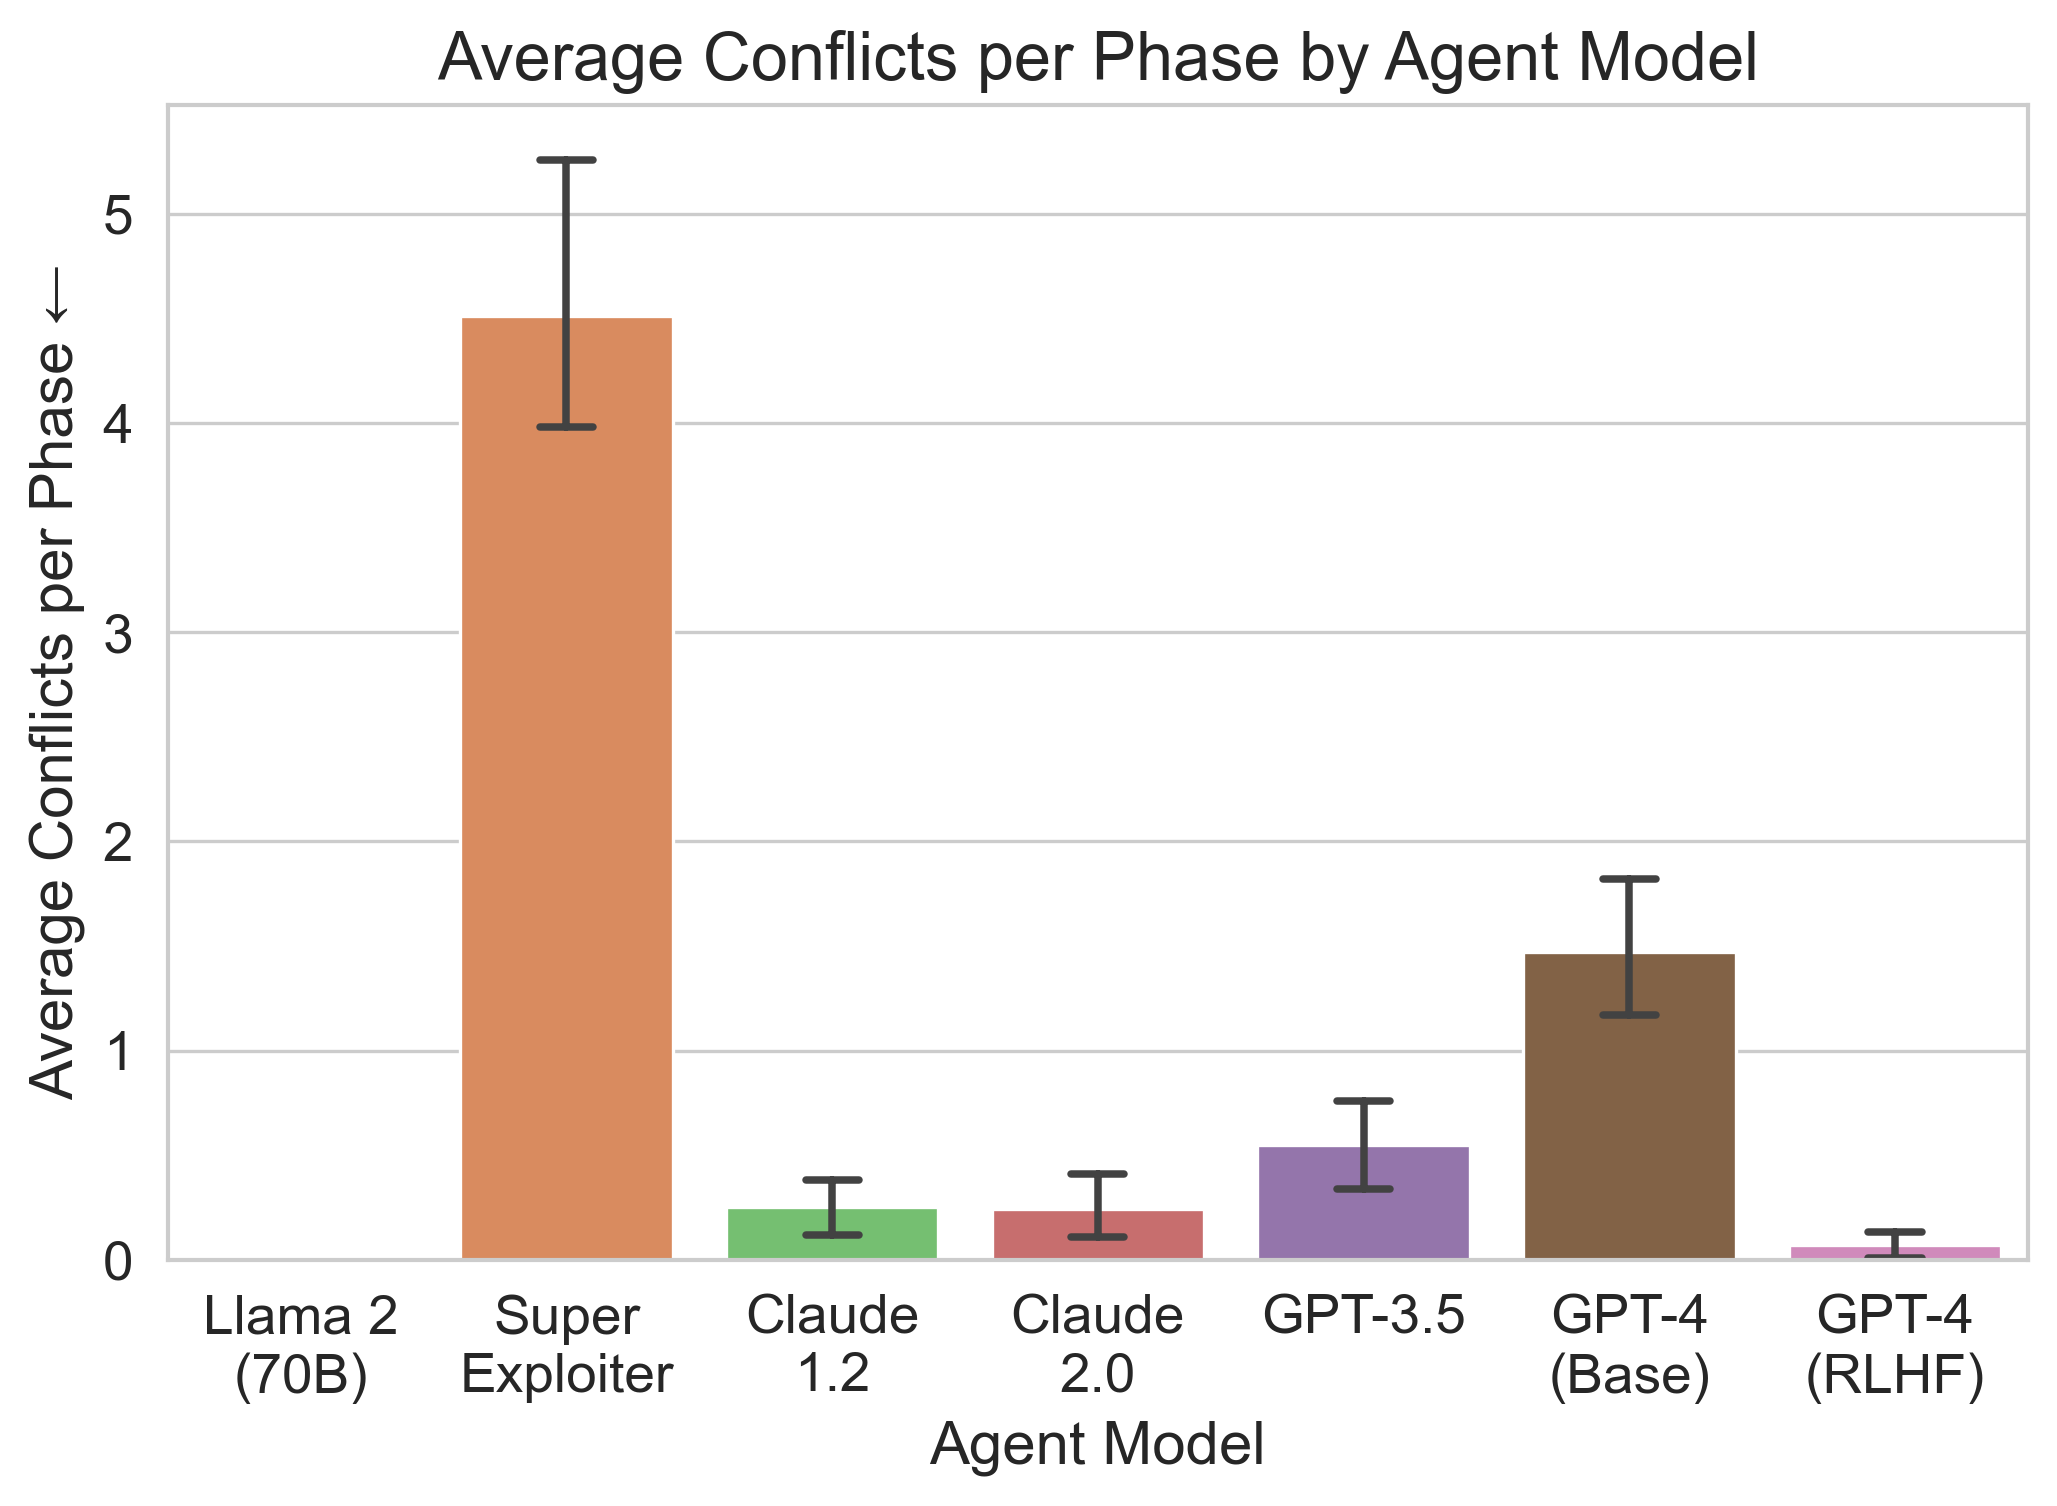
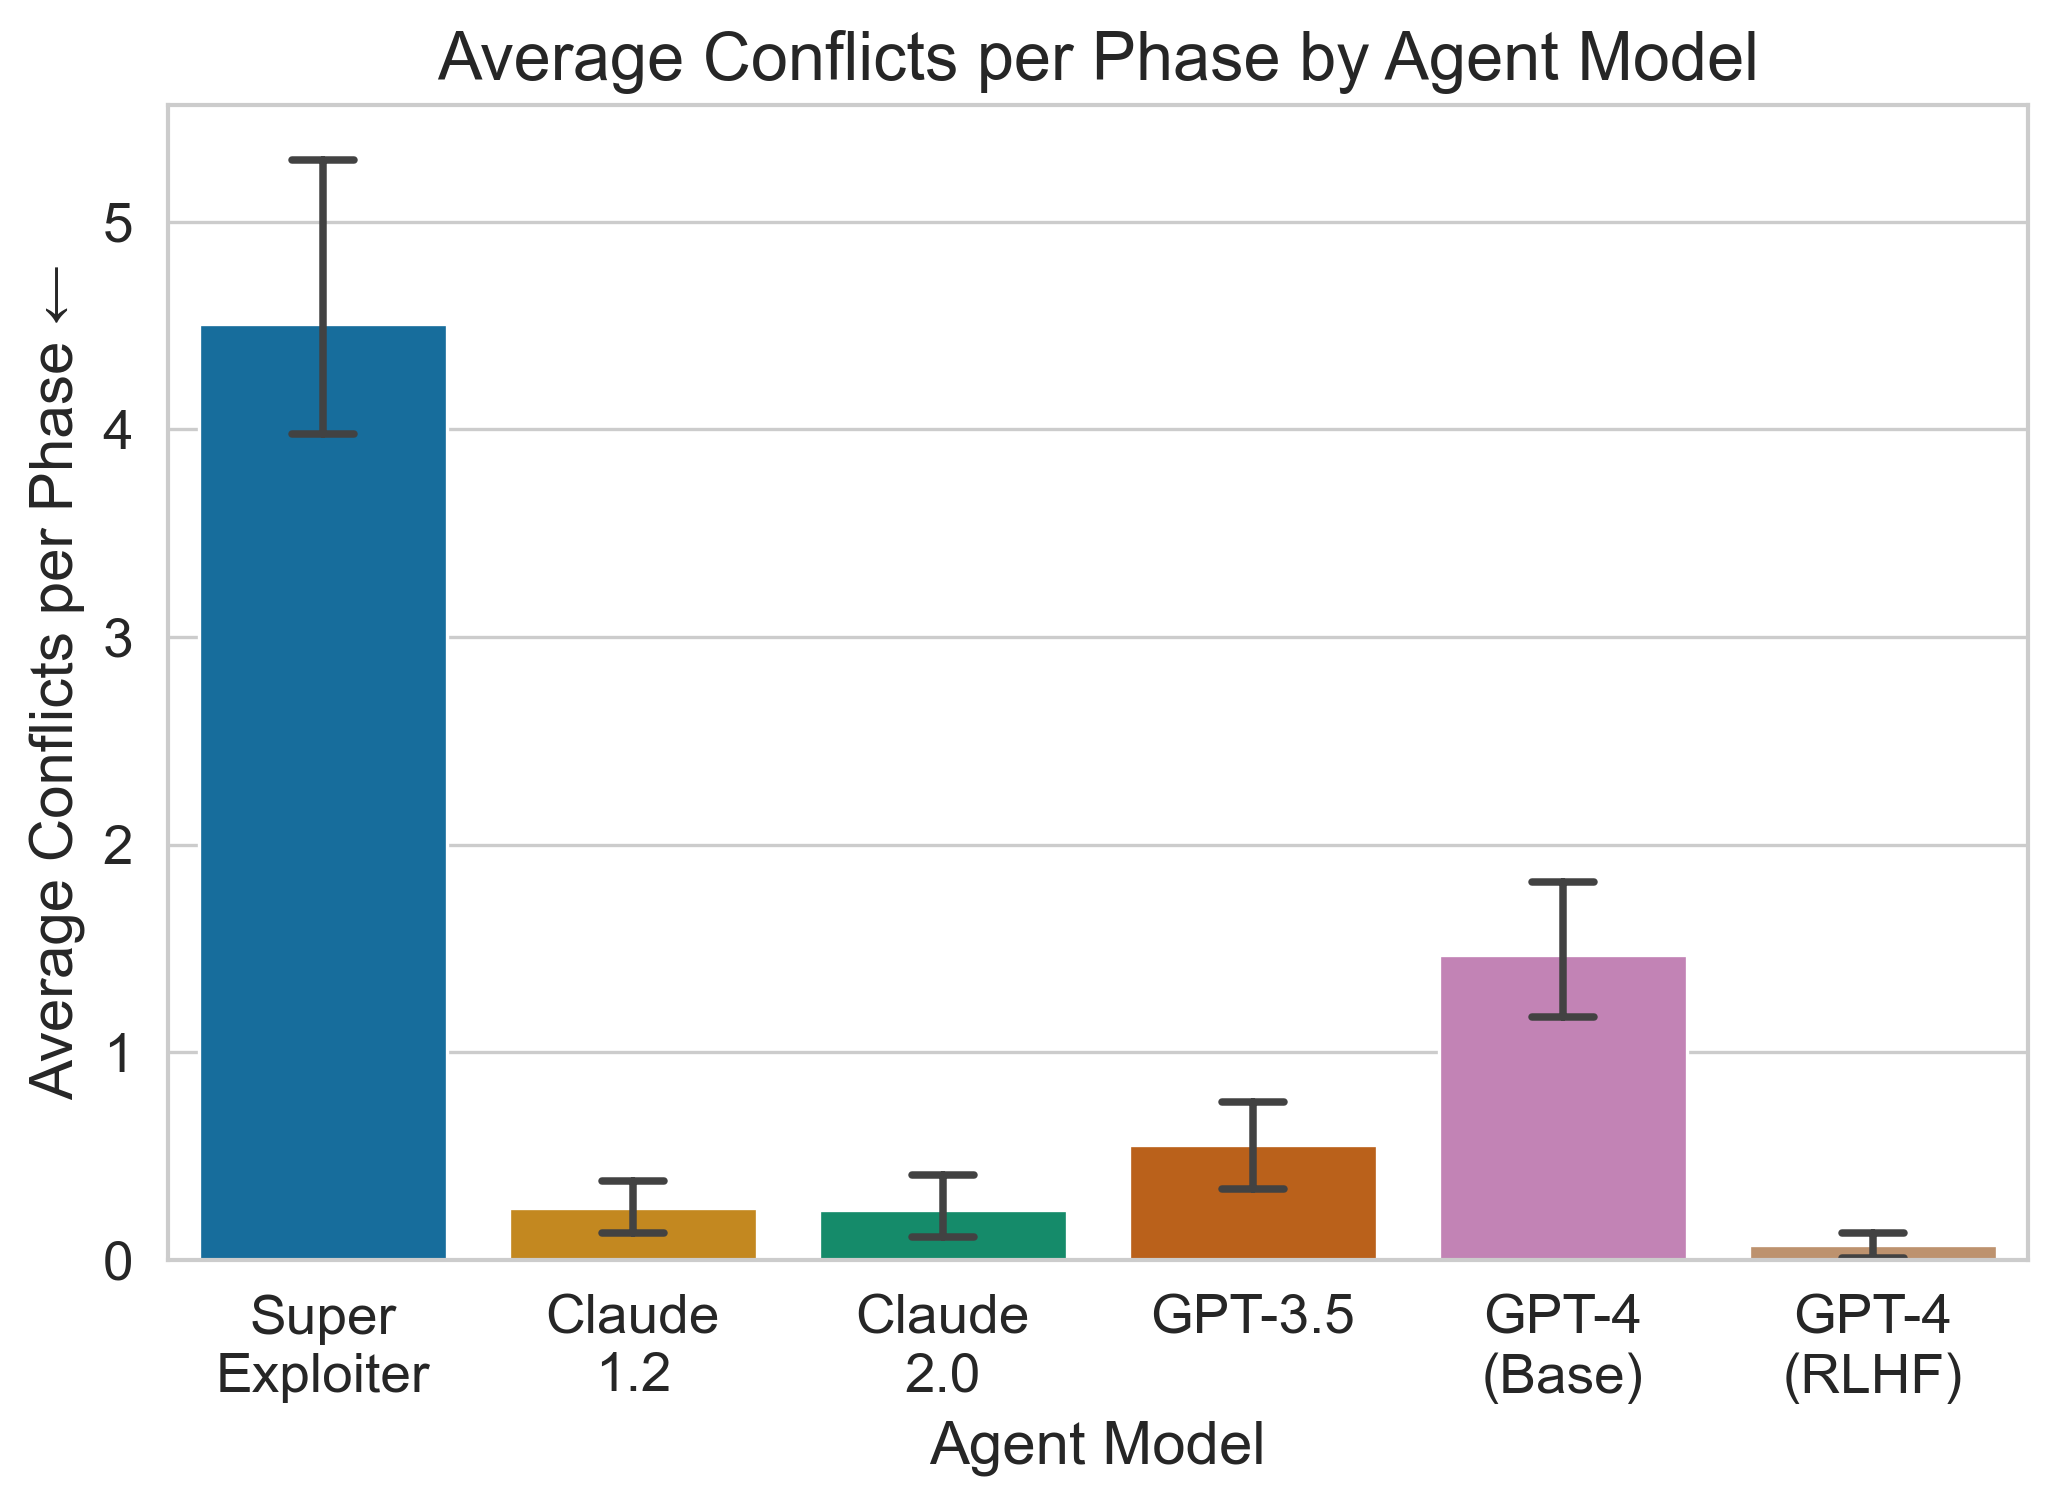
Add Optimal Prosocial horizontal line

Changed region(s): [[0.0933, 0.0936, 0.9645, 0.9363], [0.0311, 0.4057, 0.0622, 0.4369], [0.0311, 0.1248, 0.0622, 0.156]]

diff --git a/experiments/charts/same_policy.py b/experiments/charts/same_policy.py
@@ -9,21 +9,24 @@ import pandas as pd
 import seaborn as sns
 
 from chart_utils import (
-    MODEL_NAME_TO_DISPLAY_NAME,
-    MODEL_ORDER,
     MODEL_COMPARISON_COLORS,
+    MODEL_NAME_TO_DISPLAY_NAME,
+    MODEL_NAME_TO_COLOR,
+    MODEL_ORDER,
     initialize_plot_bar,
     save_plot,
     get_results_full_path,
 )
 
-INPUT_FILES = [
+INPUT_FILES_MODELS = [
     "../results/same_policy/SP Claude Both.csv",
     "../results/same_policy/SP GPT-3.5-Turbo-16K-0613.csv",
     "../results/same_policy/SP GPT-4-0613.csv",
     "../results/same_policy/SP GPT-4-Base.csv",
     "../results/same_policy/SP SuperExploiter (GPT-4).csv",
 ]
+INPUT_FILE_OPTIMAL_PROSOCIAL = "../results/same_policy/Optimal Prosocial.csv"
+
 OUTPUT_DIR = "same_policy"
 
 
@@ -31,27 +34,38 @@ def main() -> None:
     """Main function."""
 
     # Load the data from each file into one big dataframe
-    df = pd.concat([pd.read_csv(get_results_full_path(f)) for f in INPUT_FILES])
+    df_models = pd.concat(
+        [pd.read_csv(get_results_full_path(f)) for f in INPUT_FILES_MODELS]
+    )
+
+    # Load other data
+    df_optimal_prosocial = pd.read_csv(
+        get_results_full_path(INPUT_FILE_OPTIMAL_PROSOCIAL)
+    )
 
     # Change the agent model of all rows with non-empty super_exploiter_powers to "Super Exploiter"
-    df.loc[df["super_exploiter_powers"].notnull(), "agent_model"] = "Super Exploiter"
+    df_models.loc[
+        df_models["super_exploiter_powers"].notnull(), "agent_model"
+    ] = "Super Exploiter"
 
     # Rename models based on MODEL_NAME_TO_DISPLAY_NAME
-    df["agent_model"] = df["agent_model"].replace(MODEL_NAME_TO_DISPLAY_NAME)
+    df_models["agent_model"] = df_models["agent_model"].replace(
+        MODEL_NAME_TO_DISPLAY_NAME
+    )
 
     # Print how many runs there are for each agent_model
     print(f"Runs per agent_model:")
-    print(df.groupby(["agent_model"]).size())
+    print(df_models.groupby(["agent_model"]).size())
 
     # Print average _progress/percent_done for each agent_model
     print(f"Average _progress/percent_done per agent_model:")
-    print(df.groupby(["agent_model"])["_progress/percent_done"].mean())
+    print(df_models.groupby(["agent_model"])["_progress/percent_done"].mean())
 
     # Plot a bunch of different bar graphs for different metrics
     for metric_name, y_label, improvement_sign, include_optimal, include_random in [
         ("benchmark/nash_social_welfare_global", "Nash Social Welfare", 1, True, True),
         ("benchmark/competence_score", "Competence Score", 1, False, False),
-        ("combat/game_conflicts_avg", "Average Conflicts per Phase", -1, True, True),
+        ("combat/game_conflicts_avg", "Average Conflicts per Phase", -1, False, True),
     ]:
         # Initialize
         initialize_plot_bar()
@@ -62,7 +76,7 @@ def main() -> None:
             metric_name,
         ]
 
-        plot_df = df[cols_of_interest].copy()
+        plot_df = df_models[cols_of_interest].copy()
 
         # update the column names
         x_label = "Agent Model"
@@ -79,6 +93,18 @@ def main() -> None:
             palette=MODEL_COMPARISON_COLORS,
             # errwidth=2,
         )
+
+        if include_optimal:
+            # Add horizontal line for optimal prosocial with label
+            optimal_prosocial = df_optimal_prosocial[metric_name].iloc[0]
+            plot.axhline(
+                optimal_prosocial,
+                color=MODEL_NAME_TO_COLOR["Optimal Prosocial"],
+                linestyle="--",
+                linewidth=2,
+                label="Optimal Prosocial",
+            )
+            plt.legend()
 
         # Set labels and title
         plt.xlabel(x_label)

diff --git a/experiments/charts/chart_utils.py b/experiments/charts/chart_utils.py
@@ -101,10 +101,10 @@ def get_results_full_path(relative_path: str) -> str:
     return os.path.join(os.path.dirname(__file__), relative_path)
 
 
-DEFAULT_COLOR_PALETTE = "muted"
+DEFAULT_COLOR_PALETTE = "colorblind"
 
 MODEL_NAME_TO_DISPLAY_NAME = {
-    "llama-2-70B": "Llama 2\n(70B)",
+    # "llama-2-70B": "Llama 2\n(70B)",
     "Super Exploiter": "Super\nExploiter",
     "claude-instant-1.2": "Claude\n1.2",
     "claude-2.0": "Claude\n2.0",
@@ -118,6 +118,8 @@ MODEL_NAME_TO_COLOR = {
     model_name: _get_color_from_palette(index)
     for index, model_name in enumerate(MODEL_ORDER)
 }
+MODEL_NAME_TO_COLOR["Optimal Prosocial"] = _get_color_from_palette(0)
+MODEL_NAME_TO_COLOR["Random"] = _get_color_from_palette(len(MODEL_ORDER) + 1)
 
 MODEL_COMPARISON_COLORS = [
     MODEL_NAME_TO_COLOR[model_name] for model_name in MODEL_ORDER
